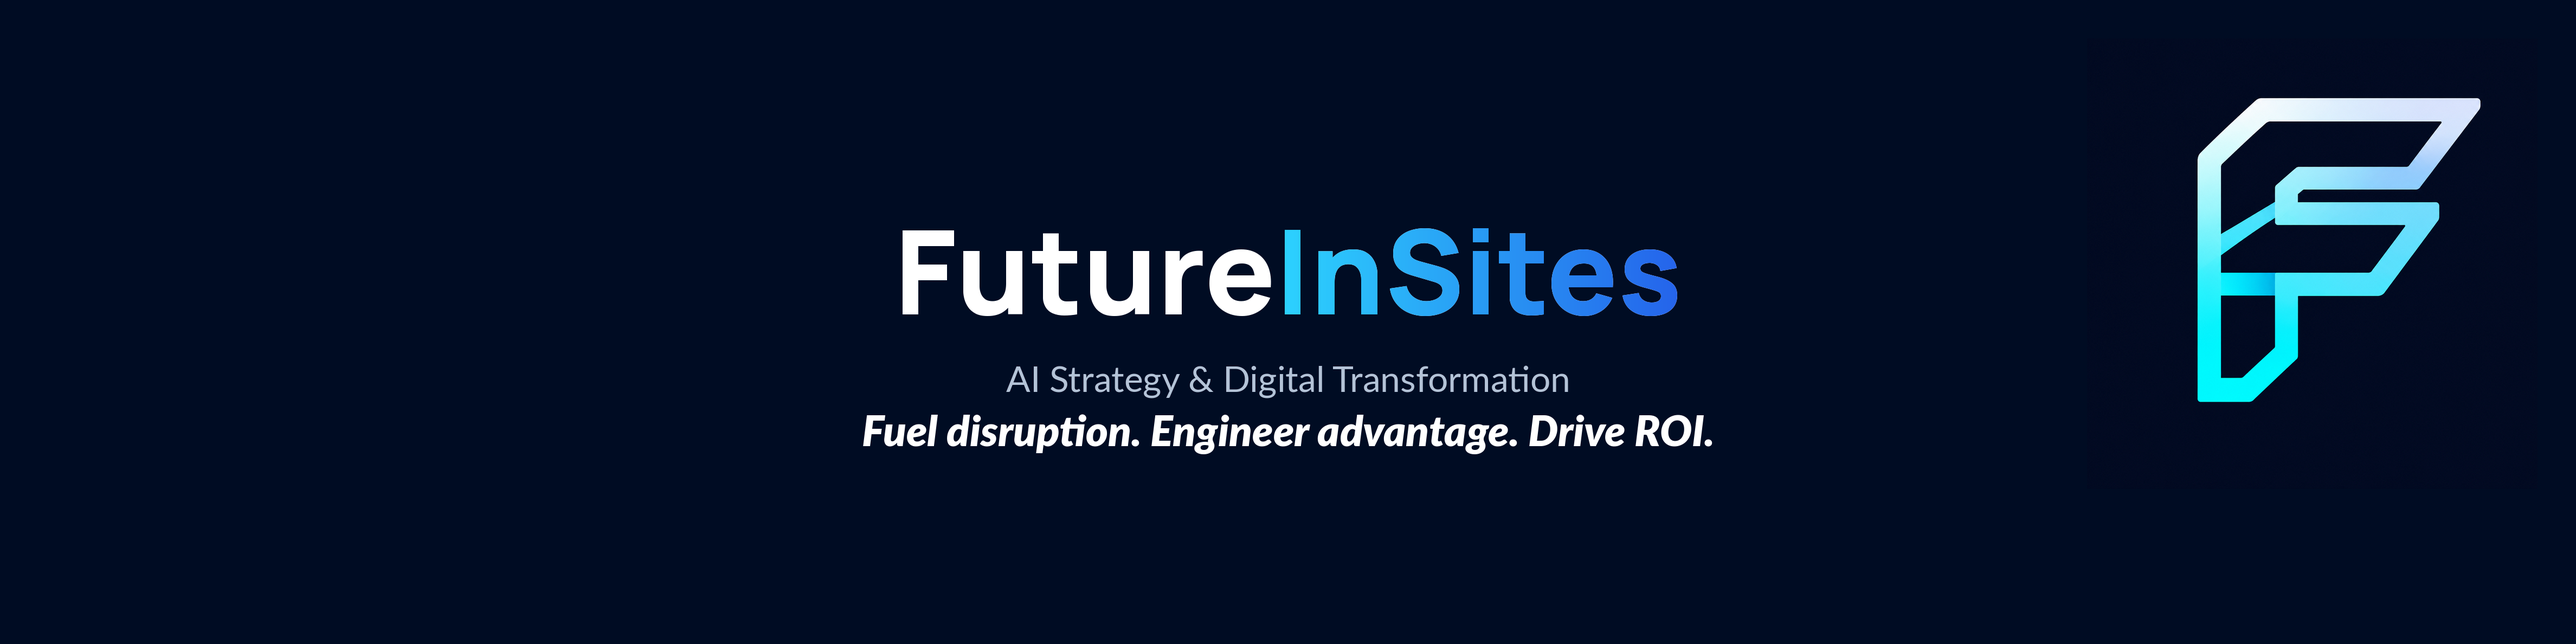
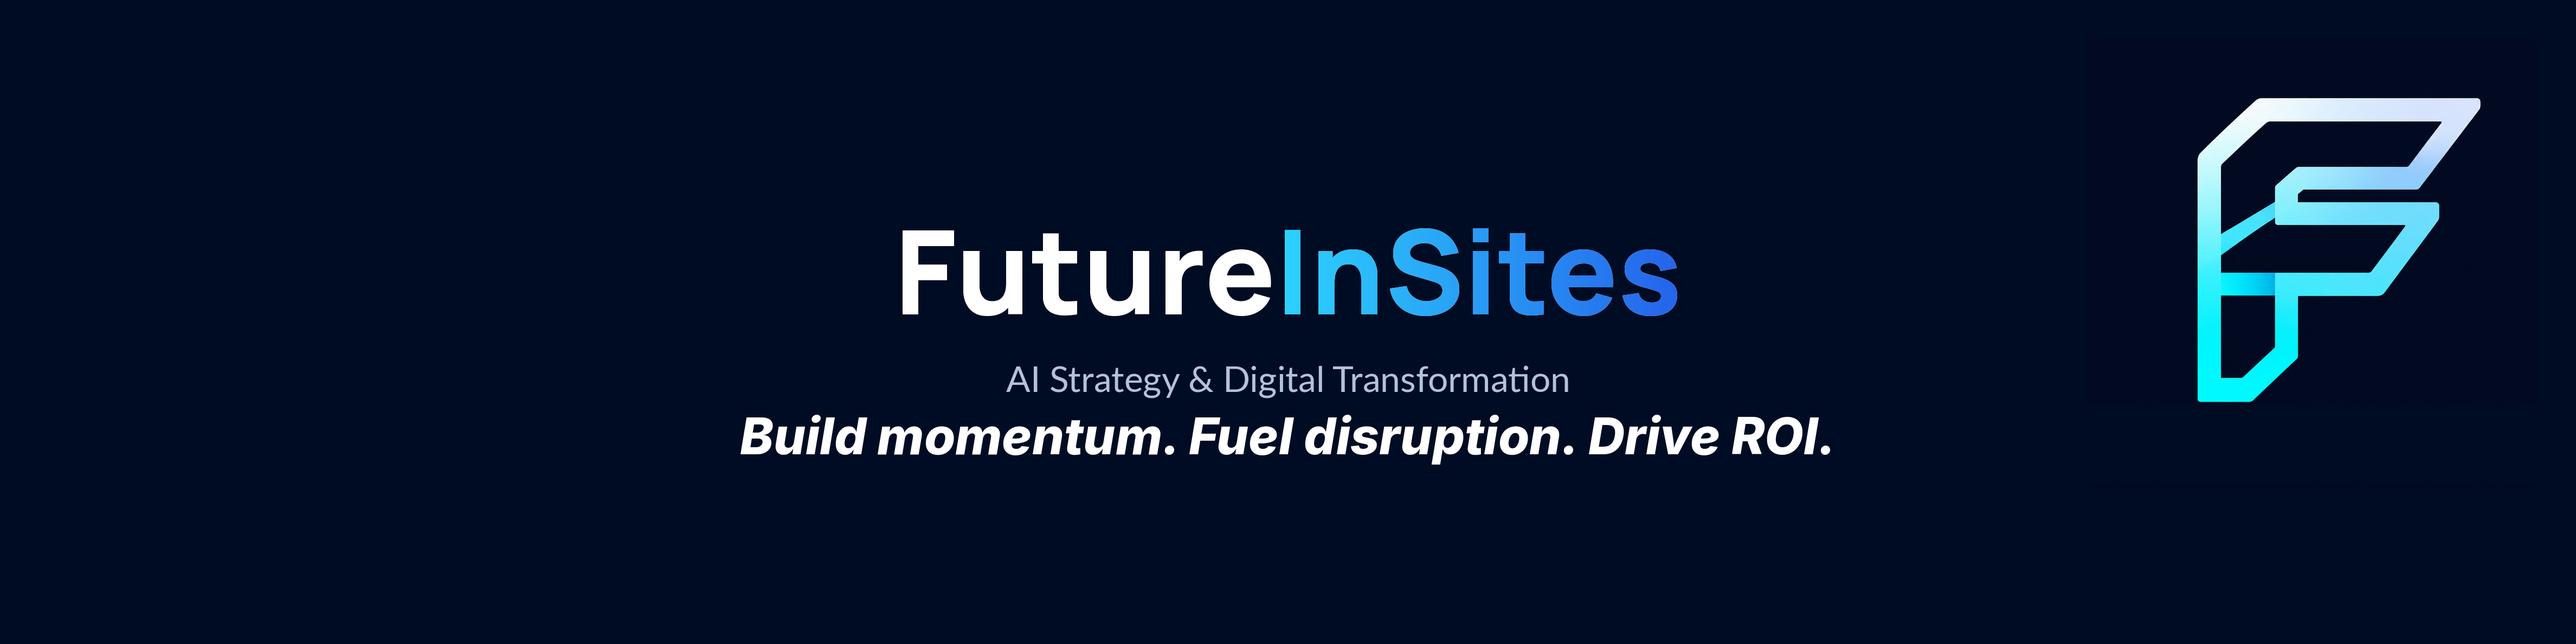
updates

Changed region(s): [[0.2803, 0.6229, 0.7163, 0.7163]]

diff --git a/index.html b/index.html
@@ -693,8 +693,8 @@
     }
 
     .sol-icon {
-      width: 36px;
-      height: 36px;
+      width: 72px;
+      height: 72px;
       color: var(--accent);
       flex-shrink: 0;
       display: flex;
@@ -702,10 +702,12 @@
       justify-content: center;
     }
 
-    .sol-icon svg {
+    .sol-icon svg,
+    .sol-icon img {
       width: 100%;
       height: 100%;
       display: block;
+      object-fit: contain;
     }
 
     .sol-rule {
@@ -1433,14 +1435,14 @@
       <div class="hero-tagline">AI Strategy &amp;<br>Digital Transformation</div>
 
       <h1 class="hero-h1">
-        We help enterprise brands navigate<br><em>the AI inflection point</em><span style="color:#FFFFFF;">.</span>
+        Proven expertise to help you navigate<br><em>the AI inflection point</em><span style="color:#FFFFFF;">.</span>
       </h1>
 
       <p class="hero-sub">
-        We partner with enterprises to design and execute AI strategies that drive measurable outcomes, not just technology roadmaps.
+        We partner with operators, investors, and professionals to design and execute AI strategies that drive measurable outcomes, not just technology roadmaps.
       </p>
 
-      <p class="hero-sub" style="margin-top:1rem; font-style:italic; color:#FFFFFF; font-size:clamp(1.1rem,2vw,1.5rem); font-weight:500; letter-spacing:0.01em;">Fuel disruption. Engineer advantage. Drive ROI.</p>
+      <p class="hero-sub" style="margin-top:1rem; font-style:italic; color:#FFFFFF; font-size:clamp(1.1rem,2vw,1.5rem); font-weight:500; letter-spacing:0.01em;">Build momentum. Fuel disruption. Drive ROI.</p>
 
       <div class="hero-actions">
         <a href="case-studies.html" class="btn-primary">View Case Studies →</a>
@@ -1457,10 +1459,12 @@
 
         <div class="about-body">
           <p class="section-label">Approach</p>
-          <h2 class="section-title">Strategy first.</h2>
-          <p>FutureInSites was built on a simple belief: the companies that win with AI aren't the ones who deploy the most tools; they're the ones who <strong>ask the right questions</strong> first.</p>
-          <p>We do two complementary kinds of work. <strong>Enterprise AI Strategy &amp; Development</strong> for operating companies navigating the AI inflection point, and <strong>AI Investment &amp; Strategic Diligence</strong> for investors and management teams evaluating AI businesses and AI's impact on incumbent economics.</p>
-          <p>The case work covers <strong>retail, manufacturing, media, finance, healthcare &amp; bio-sciences</strong>: industries where AI is reshaping customer expectations, capital intensity, and competitive advantage simultaneously.</p>
+          <h2 class="section-title">Plan. Execute. Measure.</h2>
+          <p>Most companies are already experimenting with AI: working groups, lunch-and-learns, pilot projects, and teams sharing the latest thing they tried in ChatGPT. That's activity, but not real progress.</p>
+          <p>FutureInSites helps clients move from experimentation to execution. We assess where you are, identify the opportunities most likely to save time, improve productivity, or create new value, and build the strategy and foundation to deploy them.</p>
+          <p>We work with <strong>professionals, businesses, and investors</strong>: from personal OpenClaw agent buildouts, to enterprise strategy and workflow deployment, to AI market intelligence and strategic diligence.</p>
+          <p>Our work spans <strong>retail, manufacturing, media, finance, healthcare, and bio-sciences</strong>: industries where AI is reshaping productivity, capital intensity, customer expectations, and competitive advantage.</p>
+          <p>The goal is not more AI activity. It is measurable business impact.</p>
         </div>
 
         <div class="about-stats">
@@ -1506,50 +1510,33 @@
         <a href="solutions.html#personal" class="solution-card" style="text-decoration:none; color:inherit; display:block;">
           <div class="sol-header">
             <div class="sol-icon" aria-hidden="true">
-              <svg viewBox="0 0 32 32" fill="none" stroke="currentColor" stroke-width="1.5" stroke-linecap="round" stroke-linejoin="round" xmlns="http://www.w3.org/2000/svg">
-                <circle cx="12" cy="11" r="4"/>
-                <path d="M4 27 Q 4 19, 12 19 Q 20 19, 20 27"/>
-                <circle cx="24" cy="9" r="3.5" fill="currentColor" stroke="none"/>
-                <line x1="17" y1="10" x2="20.7" y2="9.5"/>
-              </svg>
+              <img src="images/fis-icon-professionals.png" alt="">
             </div>
             <div class="sol-rule"></div>
           </div>
-          <h3>Personal</h3>
+          <h3>Professional</h3>
           <p>Done-for-you personal AI agent setups for executives and high-output professionals. Configured to your workflow, your tools, and your data, on hardware you own.</p>
         </a>
 
         <a href="solutions.html#business" class="solution-card" style="text-decoration:none; color:inherit; display:block;">
           <div class="sol-header">
             <div class="sol-icon" aria-hidden="true">
-              <svg viewBox="0 0 32 32" fill="none" stroke="currentColor" stroke-width="1.5" stroke-linecap="round" stroke-linejoin="round" xmlns="http://www.w3.org/2000/svg">
-                <rect x="4" y="21" width="24" height="6" rx="1"/>
-                <rect x="6" y="13" width="20" height="6" rx="1"/>
-                <rect x="9" y="5" width="14" height="6" rx="1"/>
-                <line x1="11" y1="24" x2="13" y2="24"/>
-                <line x1="13" y1="16" x2="15" y2="16"/>
-              </svg>
+              <img src="images/fis-icon-businesses.png" alt="">
             </div>
             <div class="sol-rule"></div>
           </div>
-          <h3>Business</h3>
+          <h3>Businesses</h3>
           <p>AI strategy and transformation for SMB through enterprise. Readiness, roadmap, vendor selection, governance, and build, delivered under a Build-Operate-Transfer model your team can own.</p>
         </a>
 
         <a href="solutions.html#investor" class="solution-card" style="text-decoration:none; color:inherit; display:block;">
           <div class="sol-header">
             <div class="sol-icon" aria-hidden="true">
-              <svg viewBox="0 0 32 32" fill="none" stroke="currentColor" stroke-width="1.5" stroke-linecap="round" stroke-linejoin="round" xmlns="http://www.w3.org/2000/svg">
-                <rect x="5" y="18" width="4" height="9"/>
-                <rect x="12" y="13" width="4" height="14"/>
-                <rect x="19" y="8" width="4" height="19"/>
-                <circle cx="23.5" cy="11.5" r="4"/>
-                <line x1="26.4" y1="14.4" x2="29" y2="17"/>
-              </svg>
+              <img src="images/fis-icon-investors.png" alt="">
             </div>
             <div class="sol-rule"></div>
           </div>
-          <h3>Investor</h3>
+          <h3>Investors</h3>
           <p>Strategic counsel and AI market intelligence for fund partners, family offices, and corporate development teams. Vendor due diligence, thesis development, and quarterly briefings.</p>
         </a>
 
